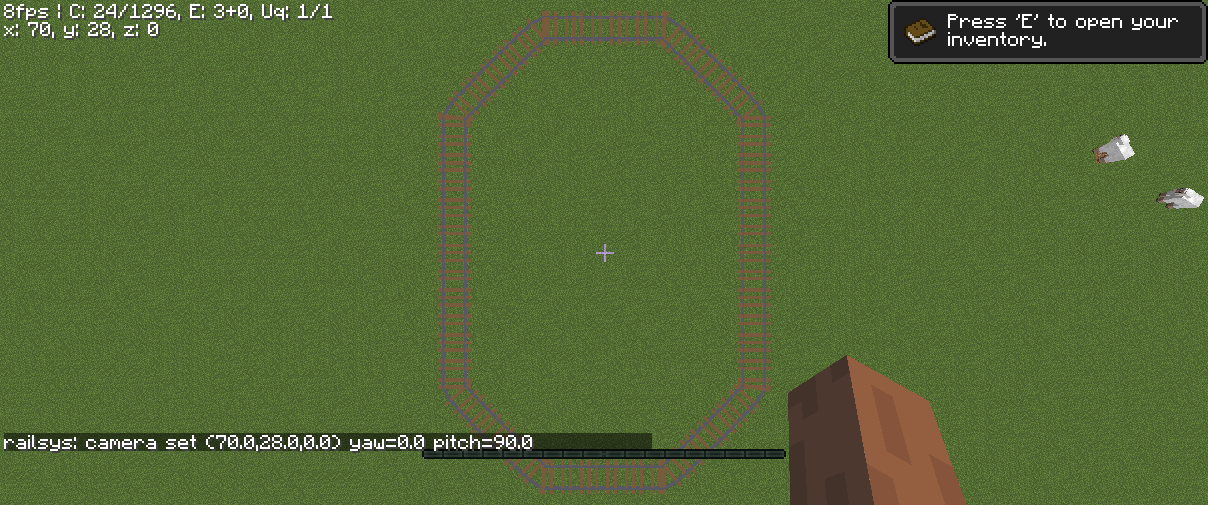
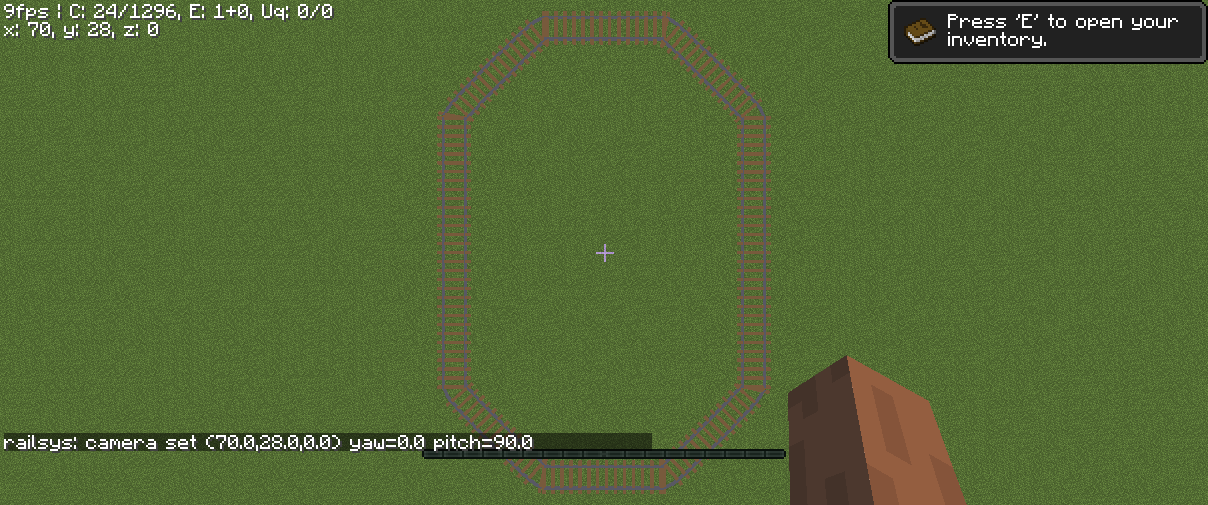
fix: R14 sleepers drawn at exact distance-based positions (Sol #4)

diff --git a/src/game/java/net/minecraft/railsys/render/RailsysProduction3DRenderer.java b/src/game/java/net/minecraft/railsys/render/RailsysProduction3DRenderer.java
@@ -98,7 +98,7 @@ public final class RailsysProduction3DRenderer {
 			for (double[] s : section.sleepers) {
 				RailLocalFrame f = nearestFrame(section, s[0], s[1], s[2]);
 				if (f != null) {
-					emitSleeper(wr, f, profile);
+					emitSleeper(wr, f, s[0], s[1], s[2], profile);
 				}
 			}
 		}
@@ -139,17 +139,47 @@ public final class RailsysProduction3DRenderer {
 				up0 + headTop, p.railR, p.railG, p.railB);
 	}
 
-	private static void emitSleeper(WorldRenderer wr, RailLocalFrame f, RailProfile p) {
-		// Sleeper box centred on the frame origin (path centreline), spanning
-		// +-sleeperLength/2 along right and small depth/height, sitting on the
-		// support surface (R10F F1): bottom = 0 (surface), top = sleeperHeight.
+	private static void emitSleeper(WorldRenderer wr, RailLocalFrame f, double exactX, double exactY,
+			double exactZ, RailProfile p) {
+		// Sleeper box centred on the EXACT distance-based world position
+		// (exactX,exactY,exactZ) with the frame orientation (right/forward/up).
+		// The frame origin is the path centreline near this sleeper; we keep the
+		// sleeper's exact world centre and only use the frame's axes.
 		double halfLen = p.sleeperLengthM * 0.5D;
 		double halfW = p.sleeperWidthM * 0.5D;
 		double up0 = 0.01D; // tiny lift above the bed to avoid z-fighting
 		double bottom = up0;
 		double top = up0 + p.sleeperHeightM;
-		boxAt(wr, f, -halfLen, -halfW, bottom, halfLen, halfW, top,
+		// Box centred at the exact sleeper centre, oriented by the frame:
+		// local (right=x, forward=z, up=y) with origin shifted to (exactX,..).
+		boxAtShifted(wr, f, exactX, exactY, exactZ, -halfLen, -halfW, bottom, halfLen, halfW, top,
 				p.sleeperR, p.sleeperG, p.sleeperB);
+	}
+
+	/** Emit a box centred on a shifted world position with a frame orientation. */
+	private static void boxAtShifted(WorldRenderer wr, RailLocalFrame f,
+			double cx, double cy, double cz,
+			double minX, double minZ, double minY, double maxX, double maxZ, double maxY,
+			int r, int g, int b) {
+		// local axes: right (x), forward (z), up (y), origin at (cx,cy,cz).
+		double[][][] faces = {
+				{ { minX, minY, minZ }, { maxX, minY, minZ }, { maxX, maxY, minZ }, { minX, maxY, minZ } }, // -z
+				{ { minX, minY, maxZ }, { maxX, minY, maxZ }, { maxX, maxY, maxZ }, { minX, maxY, maxZ } }, // +z
+				{ { minX, minY, minZ }, { minX, minY, maxZ }, { minX, maxY, maxZ }, { minX, maxY, minZ } }, // -x
+				{ { maxX, minY, minZ }, { maxX, minY, maxZ }, { maxX, maxY, maxZ }, { maxX, maxY, minZ } }, // +x
+				{ { minX, maxY, minZ }, { maxX, maxY, minZ }, { maxX, maxY, maxZ }, { minX, maxY, maxZ } }, // +y
+				{ { minX, minY, minZ }, { maxX, minY, minZ }, { maxX, minY, maxZ }, { minX, minY, maxZ } }  // -y
+		};
+		double[][] w = new double[4][3];
+		for (double[][] face : faces) {
+			for (int i = 0; i < 4; i++) {
+				double[] p = face[i];
+				w[i][0] = cx + f.rx * p[0] + f.fx * p[2] + f.ux * p[1];
+				w[i][1] = cy + f.ry * p[0] + f.fy * p[2] + f.uy * p[1];
+				w[i][2] = cz + f.rz * p[0] + f.fz * p[2] + f.uz * p[1];
+			}
+			quad(wr, w[0], w[1], w[2], w[3], r, g, b);
+		}
 	}
 
 	/** Emit a box between two frames (rail span), offset by rail centre along right. */
@@ -169,31 +199,6 @@ public final class RailsysProduction3DRenderer {
 		// End caps on frames A and B (closes the prism).
 		quad(wr, A[0], A[1], A[2], A[3], r, g, b);
 		quad(wr, B[0], B[1], B[2], B[3], r, g, b);
-	}
-
-	/** Emit a box centred on one frame (sleeper). */
-	private static void boxAt(WorldRenderer wr, RailLocalFrame f,
-			double minX, double minZ, double minY, double maxX, double maxZ, double maxY,
-			int r, int g, int b) {
-		// local axes: right (x), forward (z), up (y)
-		double[][][] faces = {
-				{ { minX, minY, minZ }, { maxX, minY, minZ }, { maxX, maxY, minZ }, { minX, maxY, minZ } }, // -z
-				{ { minX, minY, maxZ }, { maxX, minY, maxZ }, { maxX, maxY, maxZ }, { minX, maxY, maxZ } }, // +z
-				{ { minX, minY, minZ }, { minX, minY, maxZ }, { minX, maxY, maxZ }, { minX, maxY, minZ } }, // -x
-				{ { maxX, minY, minZ }, { maxX, minY, maxZ }, { maxX, maxY, maxZ }, { maxX, maxY, minZ } }, // +x
-				{ { minX, maxY, minZ }, { maxX, maxY, minZ }, { maxX, maxY, maxZ }, { minX, maxY, maxZ } }, // +y
-				{ { minX, minY, minZ }, { maxX, minY, minZ }, { maxX, minY, maxZ }, { minX, minY, maxZ } }  // -y
-		};
-		double[][] w = new double[4][3];
-		for (double[][] face : faces) {
-			for (int i = 0; i < 4; i++) {
-				double[] p = face[i];
-				w[i][0] = f.x + f.rx * p[0] + f.fx * p[2] + f.ux * p[1];
-				w[i][1] = f.y + f.ry * p[0] + f.fy * p[2] + f.uy * p[1];
-				w[i][2] = f.z + f.rz * p[0] + f.fz * p[2] + f.uz * p[1];
-			}
-			quad(wr, w[0], w[1], w[2], w[3], r, g, b);
-		}
 	}
 
 	/** 4 rectangle corners in world space; local (right=x, up=y):
